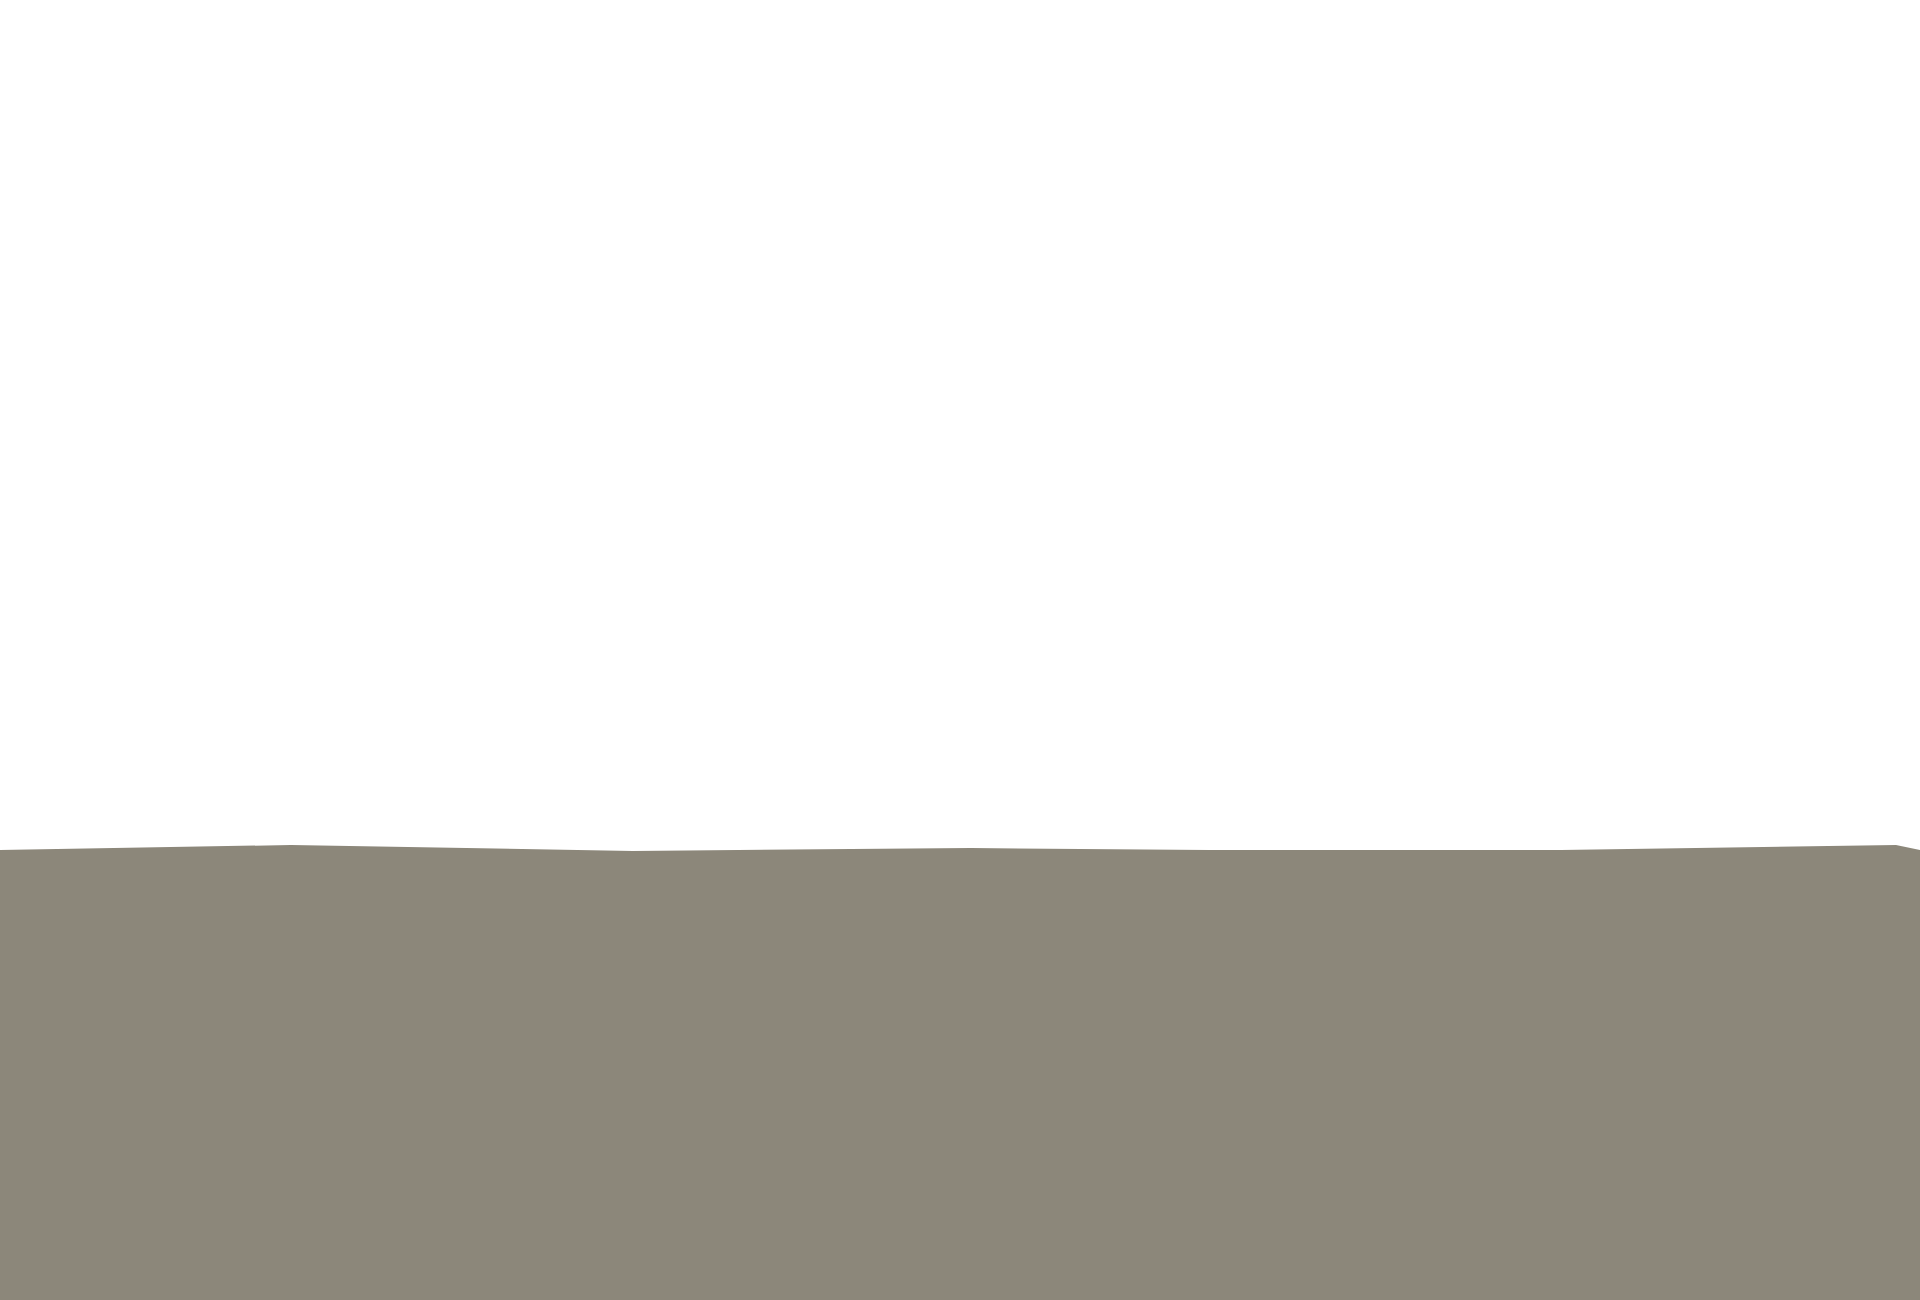
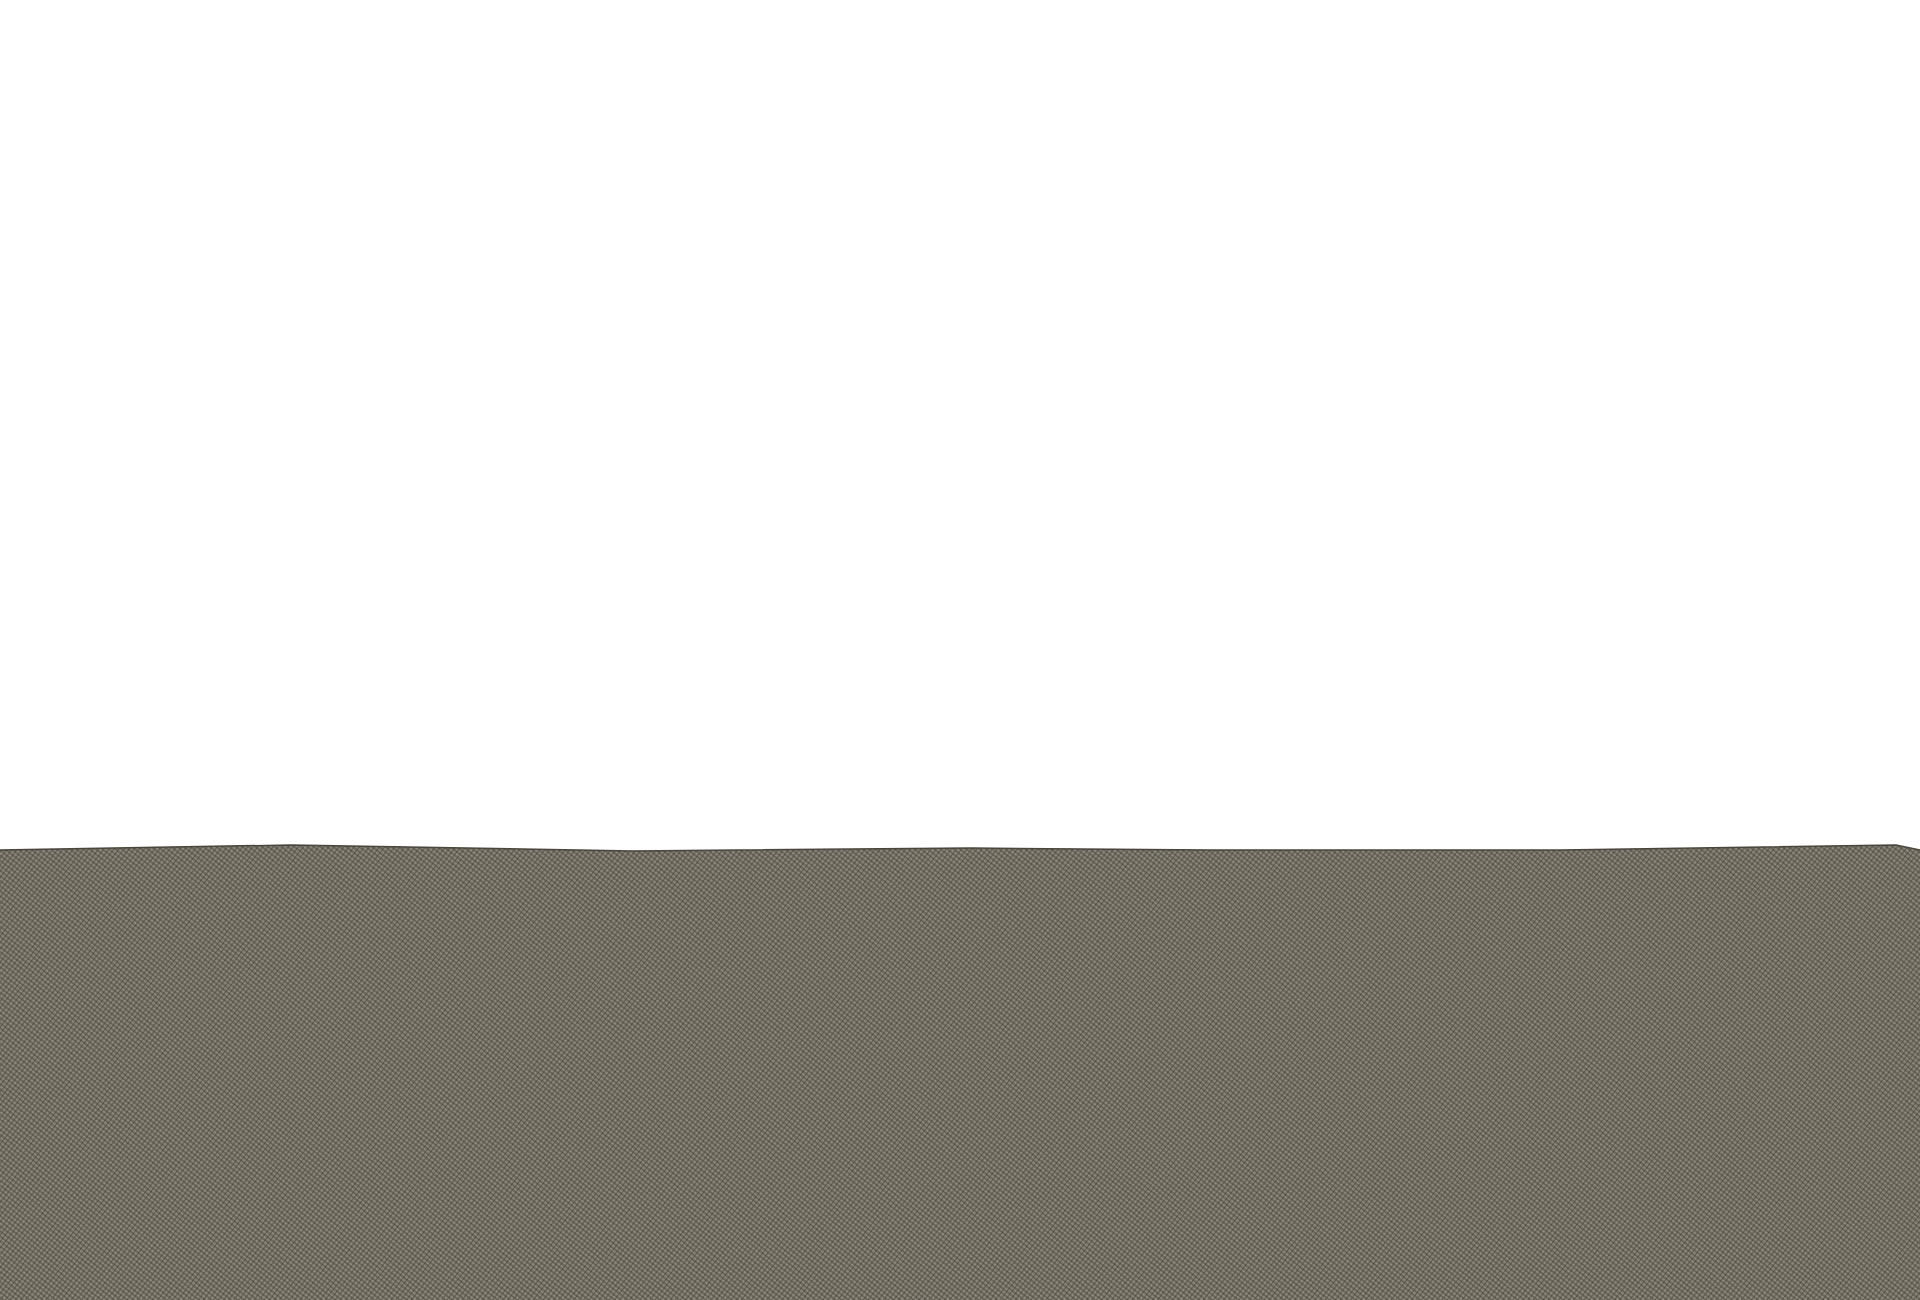
Grave le brouillard de l'étape 2 en trois densités
Les bandes gardent leur opacité et la valeur de mine, avec une texture
visible : rayure de papier au loin, hachure de lavis au milieu,
contre-hachure devant ; bord haut souligné (demande du Game Director).

Claude-Session: https://claude.ai/code/session_011WbKxBfoJbcyebqrVqkEA5

Changed region(s): [[0.0, 0.6462, 1.0, 1.0]]

diff --git a/tools/gen_decors_e2_surface.py b/tools/gen_decors_e2_surface.py
@@ -254,7 +254,17 @@ def ecrire_tuiles(plan: int, nom: str, contenu: str, largeur: int) -> int:
 def fx() -> None:
     """Calques séparés que le code montre, cache ou déplace."""
     FX.mkdir(parents=True, exist_ok=True)
-    # trois bandes de brouillard en aplat de mine, bord haut découpé net, raccord en boucle sur x
+    # Trois bandes de brouillard opaques mais gravées : valeur de mine gardée, texture de densité croissante
+    # (loin = mine rayée de papier, milieu = mine hachurée de lavis, près = contre-hachure de lavis), bord haut découpé net et souligné.
+    motifs = (
+        ('<pattern id="b1" width="7" height="7" patternUnits="userSpaceOnUse" patternTransform="rotate(38)">'
+         f'<rect width="7" height="7" fill="{MINE}"/><line x1="0" y1="0" x2="0" y2="7" stroke="{PAPIER}" stroke-width="1.2"/></pattern>'),
+        ('<pattern id="b2" width="4.5" height="4.5" patternUnits="userSpaceOnUse" patternTransform="rotate(38)">'
+         f'<rect width="4.5" height="4.5" fill="{MINE}"/><line x1="0" y1="0" x2="0" y2="4.5" stroke="{LAVIS}" stroke-width="1.2"/></pattern>'),
+        ('<pattern id="b3" width="4" height="4" patternUnits="userSpaceOnUse" patternTransform="rotate(38)">'
+         f'<rect width="4" height="4" fill="{MINE}"/><line x1="0" y1="0" x2="0" y2="4" stroke="{LAVIS}" stroke-width="1.4"/>'
+         f'<line x1="0" y1="2" x2="4" y2="2" stroke="{LAVIS}" stroke-width="1"/></pattern>'),
+    )
     for i, (haut, amp, seed) in enumerate(((420, 14, 71), (620, 10, 72), (850, 6, 73))):
         r = rnd(seed)
         pts = [(0, haut)]
@@ -263,9 +273,12 @@ def fx() -> None:
             x += r.randint(220, 460)
             pts.append((x, haut + r.uniform(-amp, amp)))
         pts.append((1920, haut))
-        d = "M" + " L".join(f"{px:.0f} {py:.0f}" for px, py in pts) + f" L1920 {H} L0 {H} Z"
+        bord = "M" + " L".join(f"{px:.0f} {py:.0f}" for px, py in pts)
+        d = bord + f" L1920 {H} L0 {H} Z"
         (FX / f"fx_brouillard_{i + 1:02d}.svg").write_text(
-            f'<svg xmlns="http://www.w3.org/2000/svg" width="1920" height="{H}" viewBox="0 0 1920 {H}"><path d="{d}" fill="{MINE}"/></svg>\n')
+            f'<svg xmlns="http://www.w3.org/2000/svg" width="1920" height="{H}" viewBox="0 0 1920 {H}"><defs>{motifs[i]}</defs>'
+            f'<path d="{d}" fill="url(#b{i + 1})"/>'
+            f'<path d="{bord}" fill="none" stroke="{LAVIS}" stroke-width="1.5"/></svg>\n')
     # cheval de frise qui ferme la chicane de Brisse (retiré quand le verrou s'ouvre)
     (FX / "fx_cheval-frise.svg").write_text(
         f'<svg xmlns="http://www.w3.org/2000/svg" width="200" height="220" viewBox="0 0 200 220">{DEFS2}'
